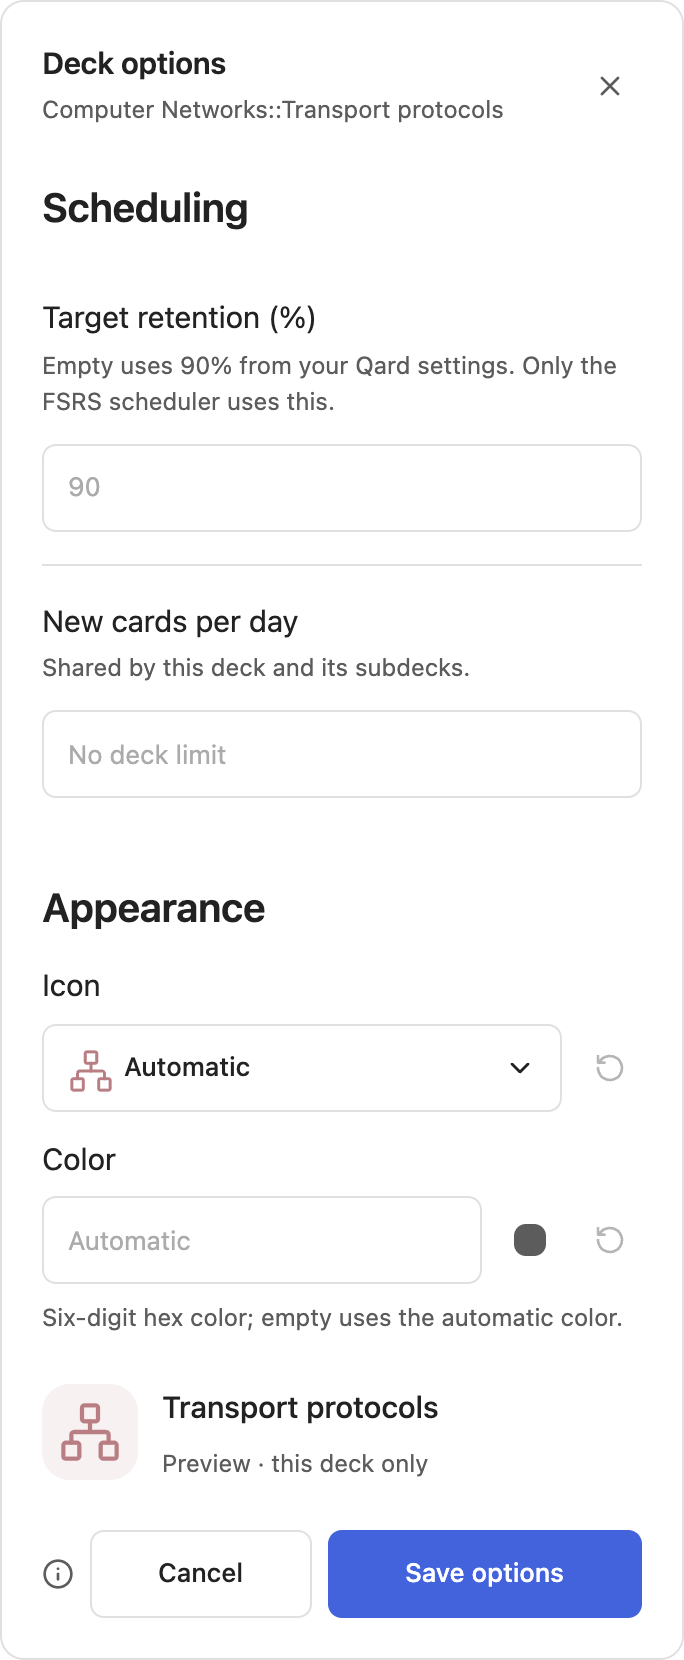
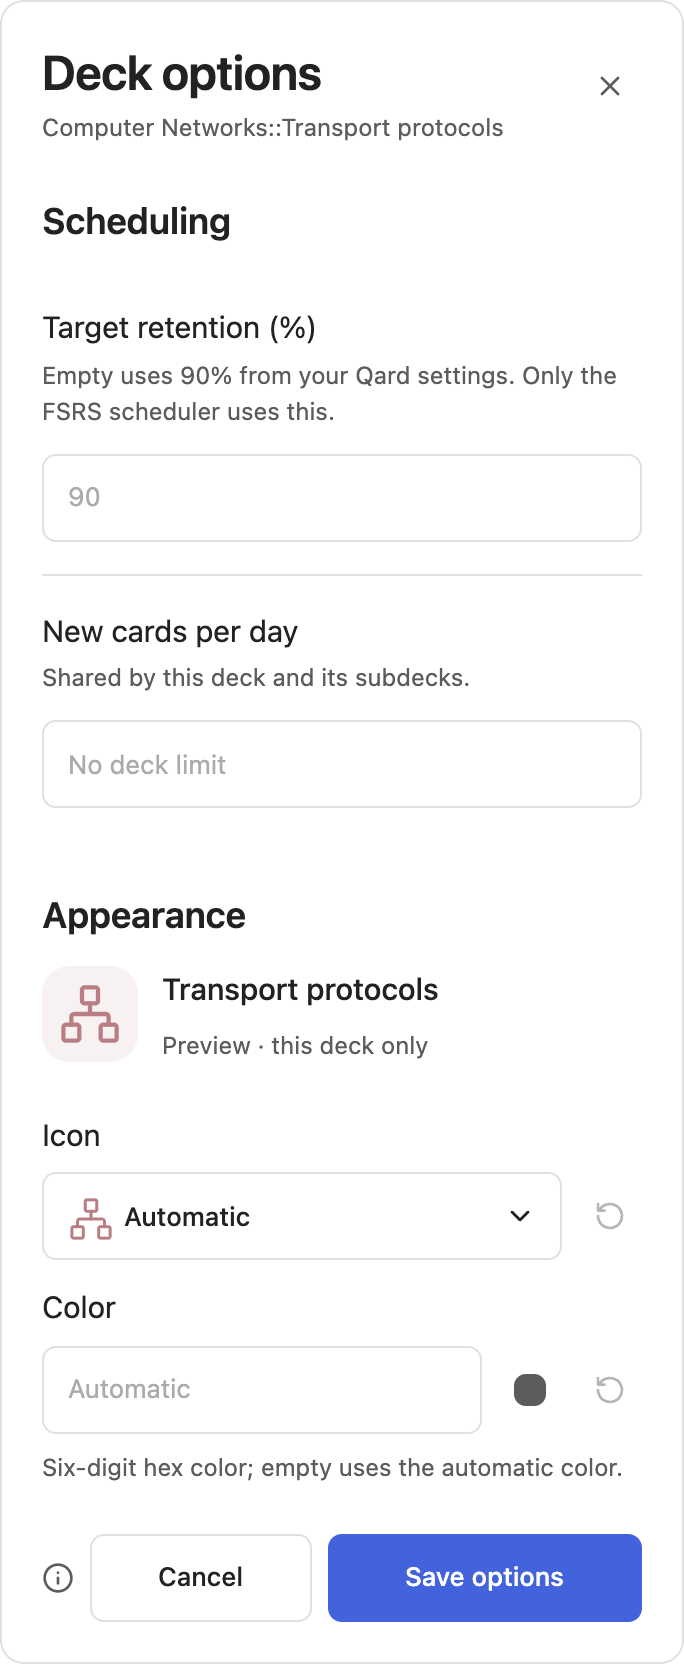
Refresh settings hierarchy and preview-order evidence

diff --git a/docs/images/ui-main-latest/audit-report.md b/docs/images/ui-main-latest/audit-report.md
@@ -1,3 +1,14 @@
+# Settings title hierarchy and preview-first order
+
+Latest#17 source `489c13507f61acea70ee8f3ce955999f210c1fcf`; #10 source remains620550c.
+
+- Parent panel h2 uses the settings title role based on the shared page size. Section legends derive at75% of the title size. Labels retain the smaller body role and normal weight: title>section>label, rather than a legend larger than its parent title.
+- Preview precedes fields in the DOM: left preview/right fields on desktop, preview above fields on narrow panes. Right-aligned desktop dropdown avoids the pane edge; narrow panes use the original left alignment.
+-14browser cases across320/390/480/580/640/1000/1440px in both themes pass hierarchy, preview placement, DOM order, dropdown edge fit, full icon registry, selection/reset and empty-state checks. Two screenshots refreshed; total52pairs unchanged.
+- Full npm run check passed822tests/98files plus formatting/typecheck/ESLint/Stylelint/build/release0.6.6. No test cases/files added. Native isolated icon SVG/select/cancel verification passed; protected DevBook/global files unchanged.
+
+## Prior verification
+
 # Current main, settings hierarchy and review fixes
 
 Main `387ded998211375ee9fefcc707939b8aea7ca8d5` (0.6.6) → #10 `620550cc6b8c05e561afdeac454f5a72ed661474` → #17 `8116419e410938140c47a415ba4a6402112569e5`.
